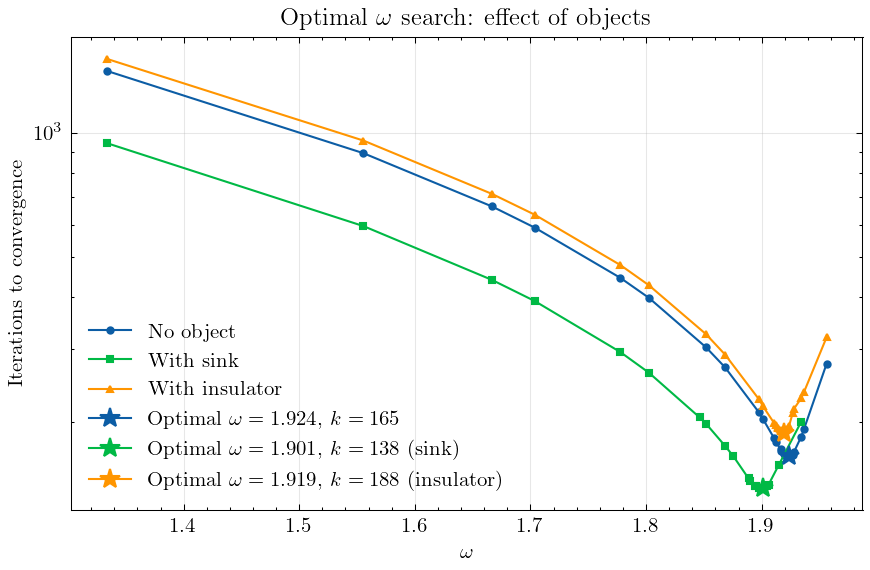
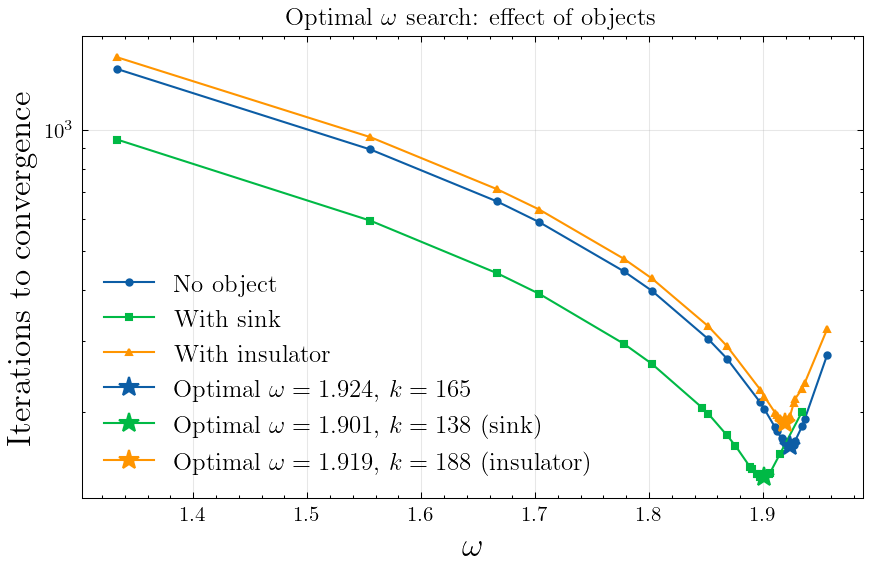
docs: improve readability of image

diff --git a/scripts/a1_6_seeking_optimal_omega.py b/scripts/a1_6_seeking_optimal_omega.py
@@ -105,11 +105,11 @@ ax.plot(
     zorder=5,
     label=f"Optimal $\\omega = {omega_optimal_ins:.3f}$, $k = {n_iter_optimal_ins}$ (insulator)",
 )
-ax.set_xlabel(r"$\omega$")
-ax.set_ylabel("Iterations to convergence")
+ax.set_xlabel(r"$\omega$", fontsize=16)
+ax.set_ylabel("Iterations to convergence", fontsize=16)
 ax.set_title(r"Optimal $\omega$ search: effect of objects")
 
-ax.legend()
+ax.legend(fontsize=12)
 ax.grid(True, alpha=0.3)
 
 plt.tight_layout()
